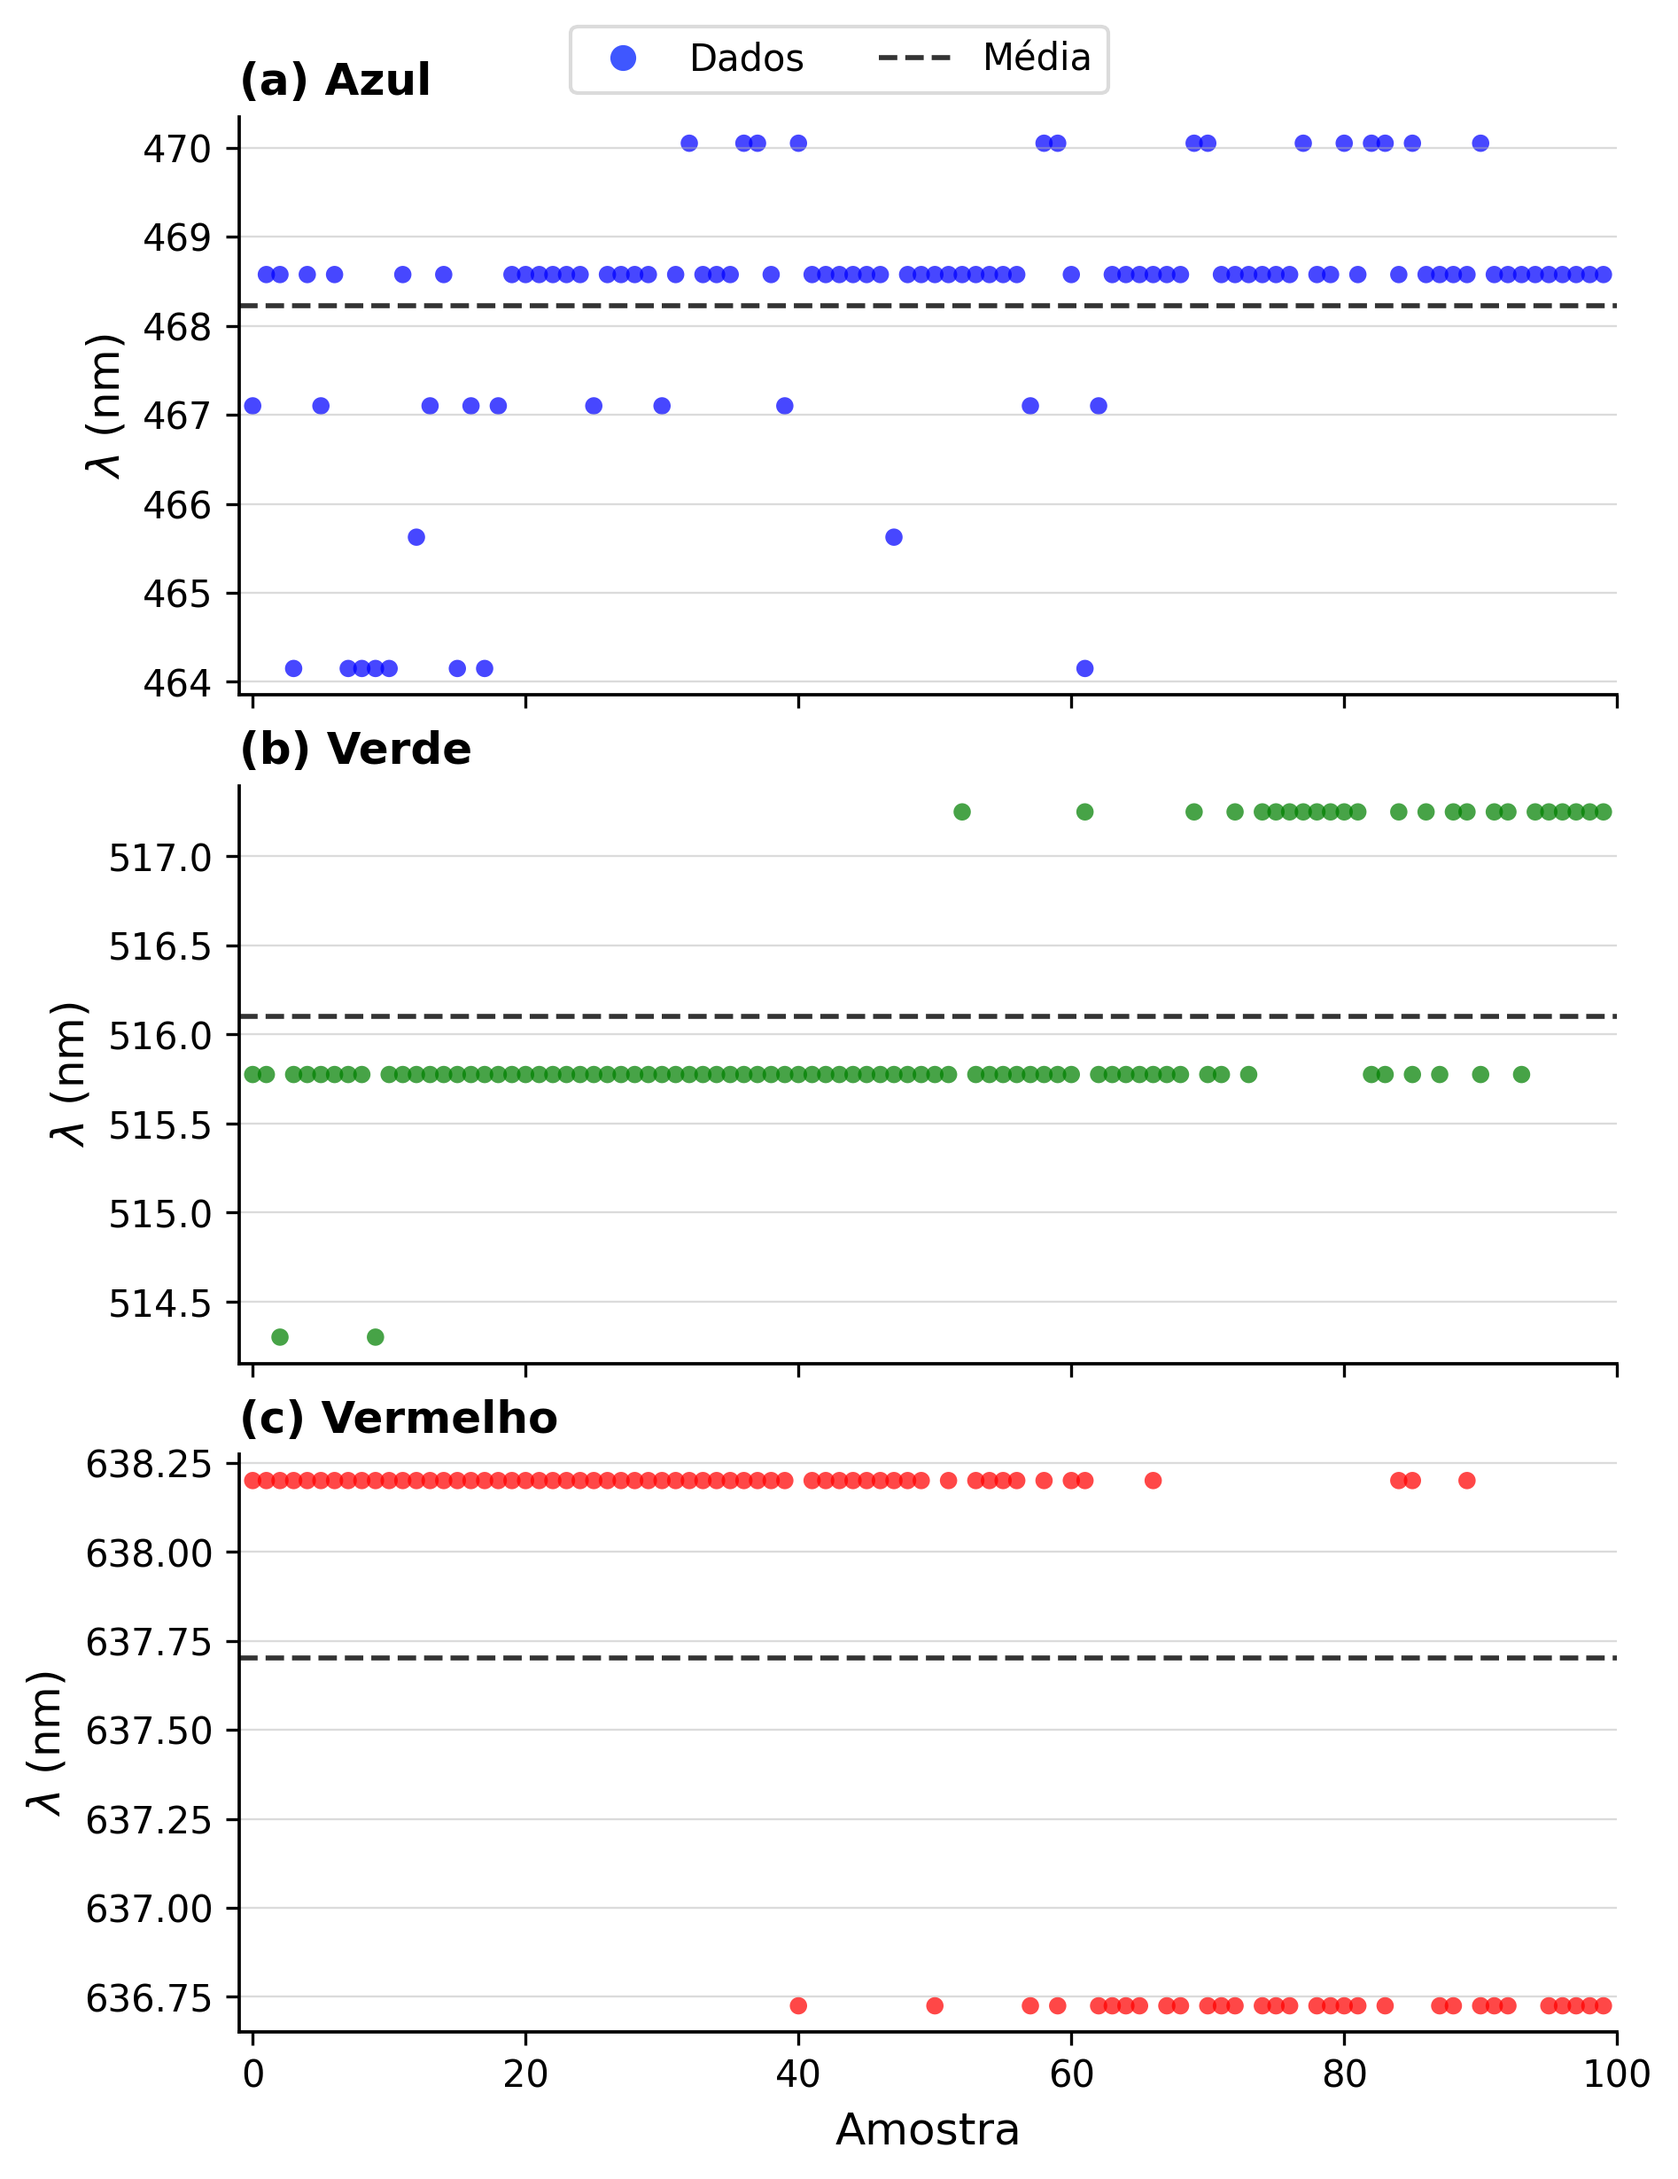
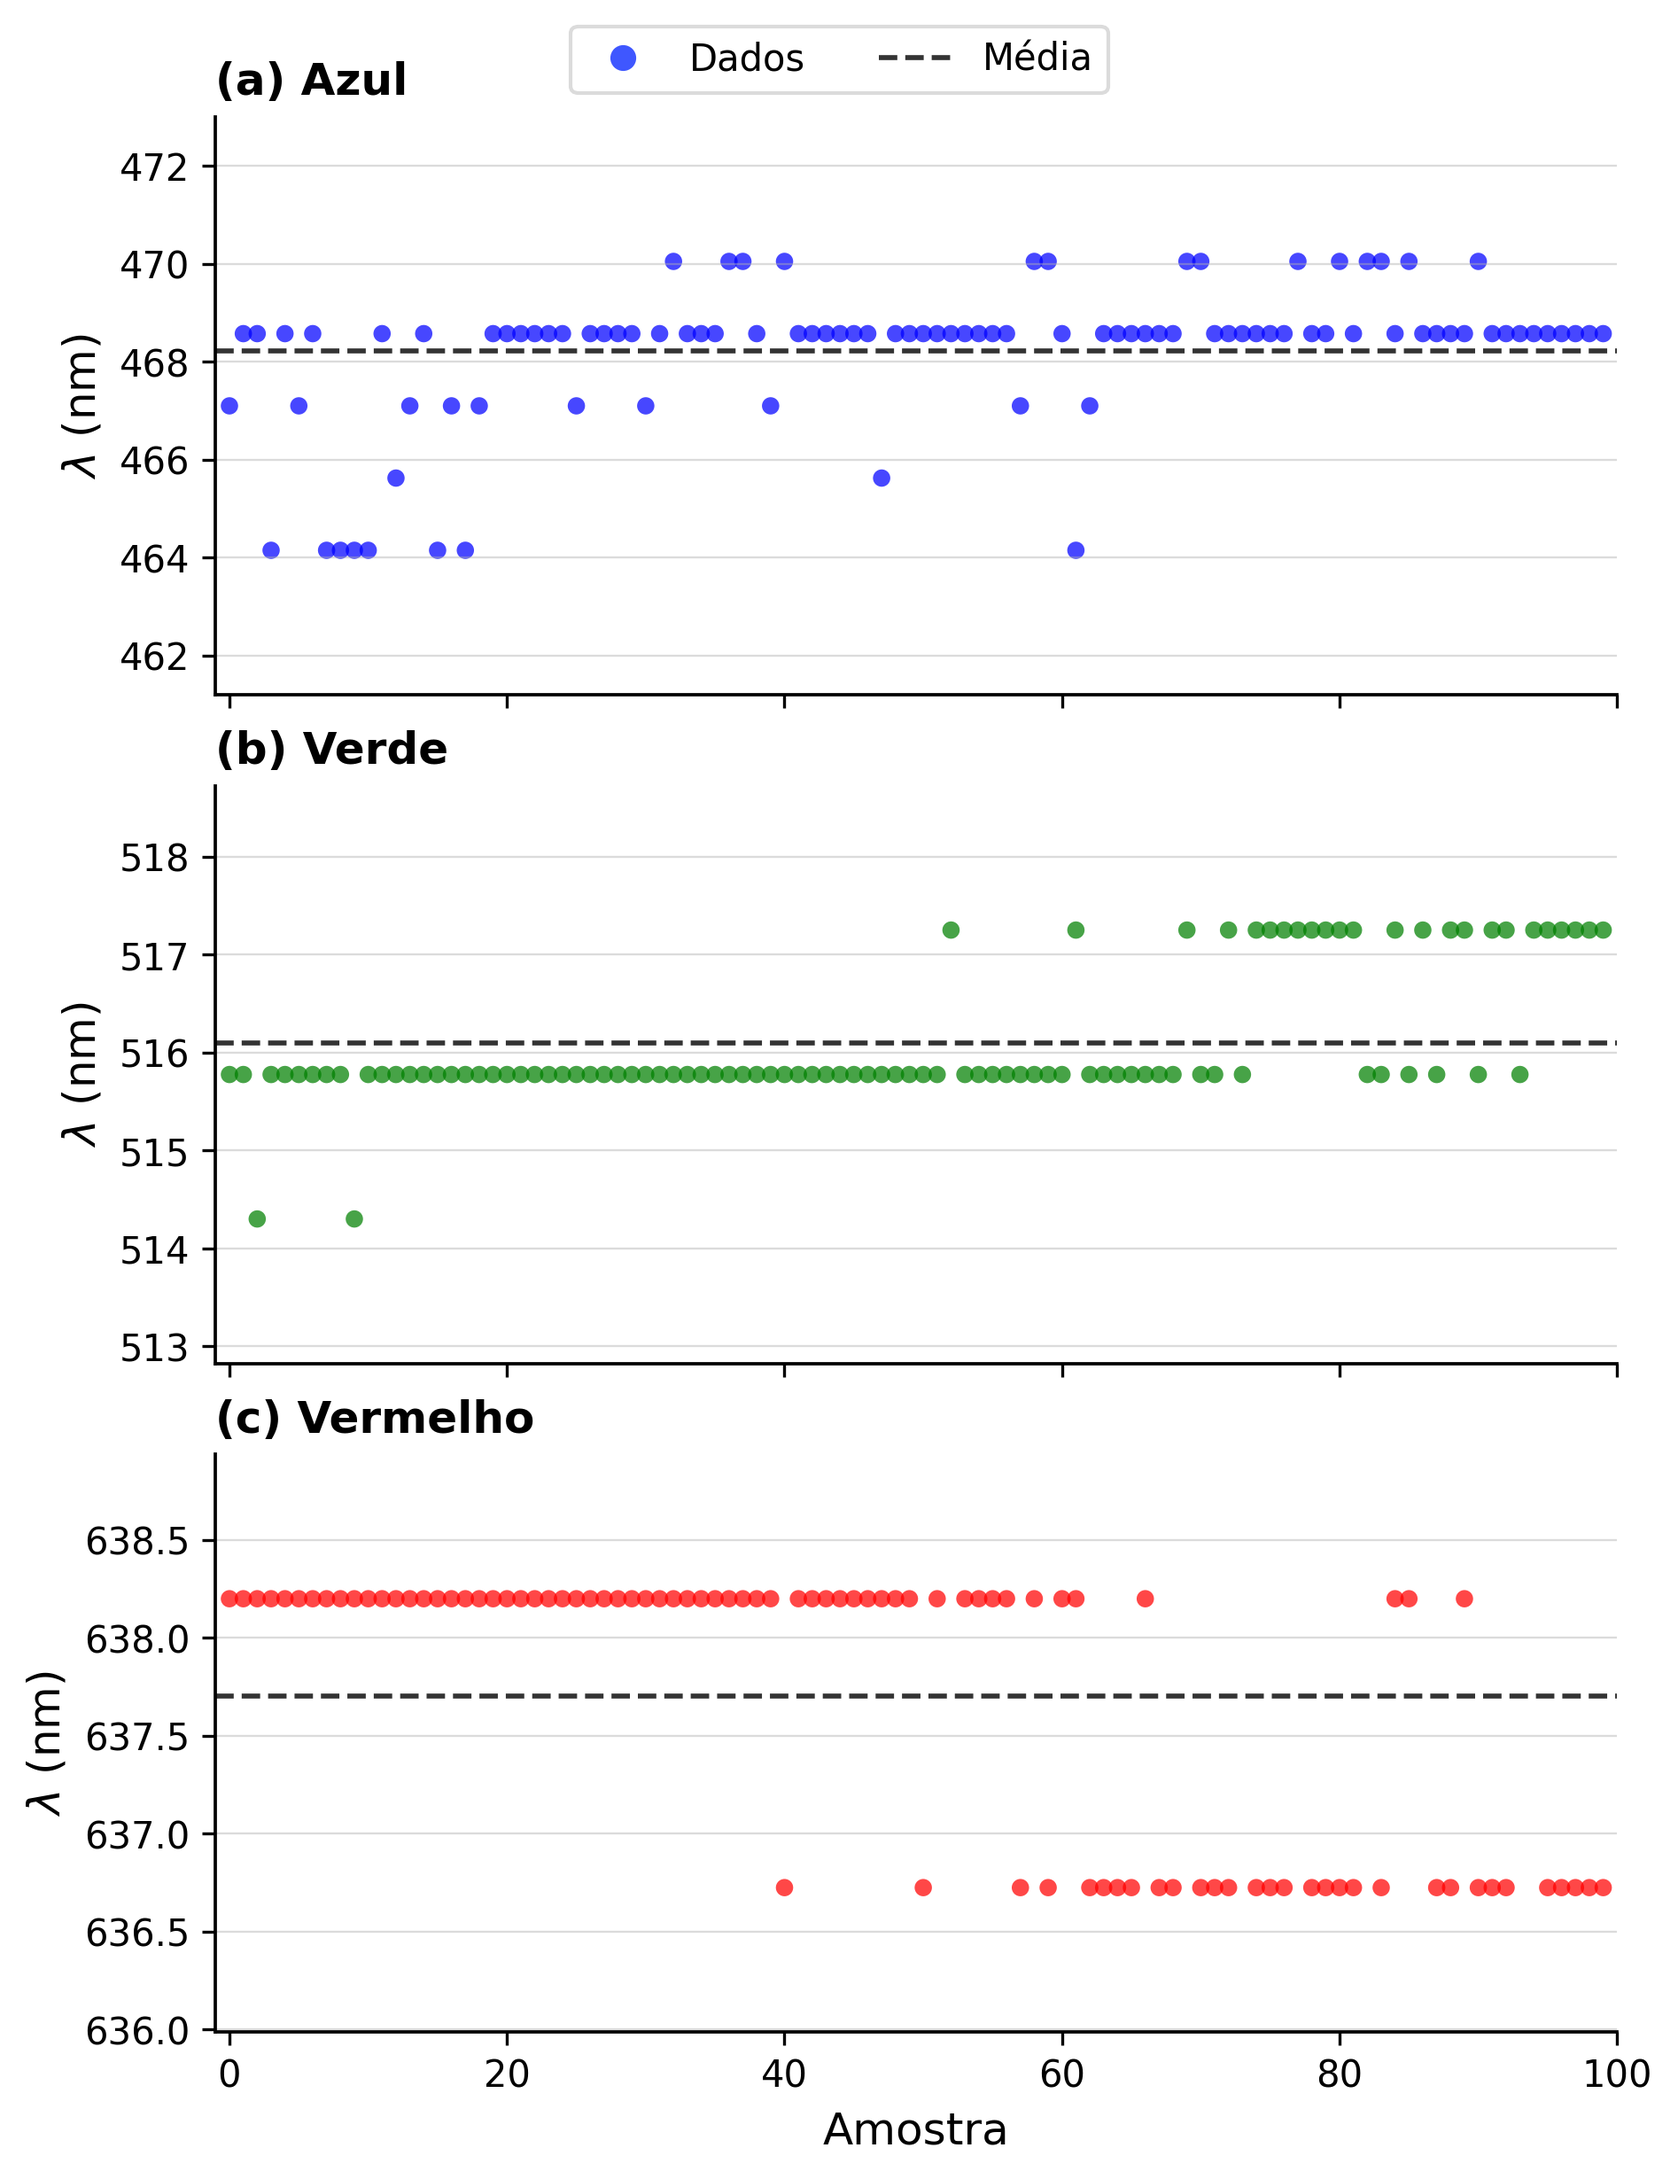
Double y-axis span for temporal RGB peak evolution plots
Set explicit wavelength limits per subplot so the visible range is twice the data span (centered), and regenerate paper figures for Visible and ThorLabs.

Made-with: Cursor

diff --git a/Experimentos/scripts/analise2paper.py b/Experimentos/scripts/analise2paper.py
@@ -552,6 +552,16 @@ def gerar_graficos_estatisticos(grupos_picos, estatisticas_df, fonte="visible"):
             _spines_clean(ax)
             ax.set_xlim(-1, 100)
 
+            # Dobrar o intervalo vertical de visualização, centrado nos dados
+            wl_arr = np.asarray(wl_values, dtype=float)
+            ymin_data = float(wl_arr.min())
+            ymax_data = float(wl_arr.max())
+            centro = 0.5 * (ymin_data + ymax_data)
+            meia_largura = (ymax_data - ymin_data)  # dobro do atual
+            if meia_largura <= 0:
+                meia_largura = 1.0
+            ax.set_ylim(centro - meia_largura, centro + meia_largura)
+
         axes[-1].set_xlabel("Amostra")
         fig.legend(
             handles=[
